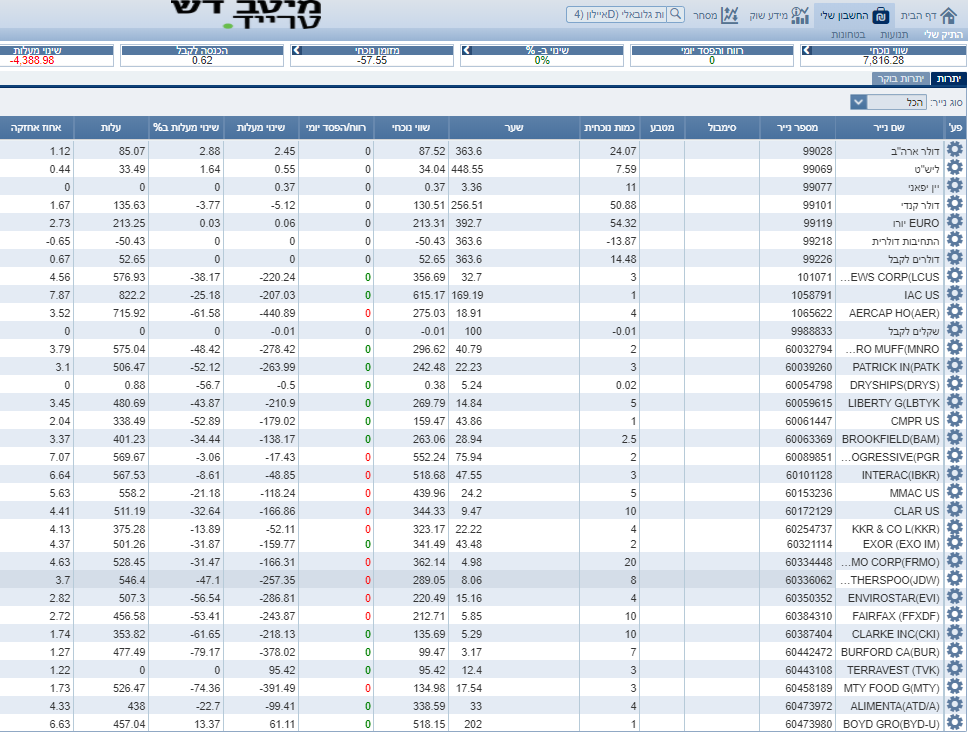
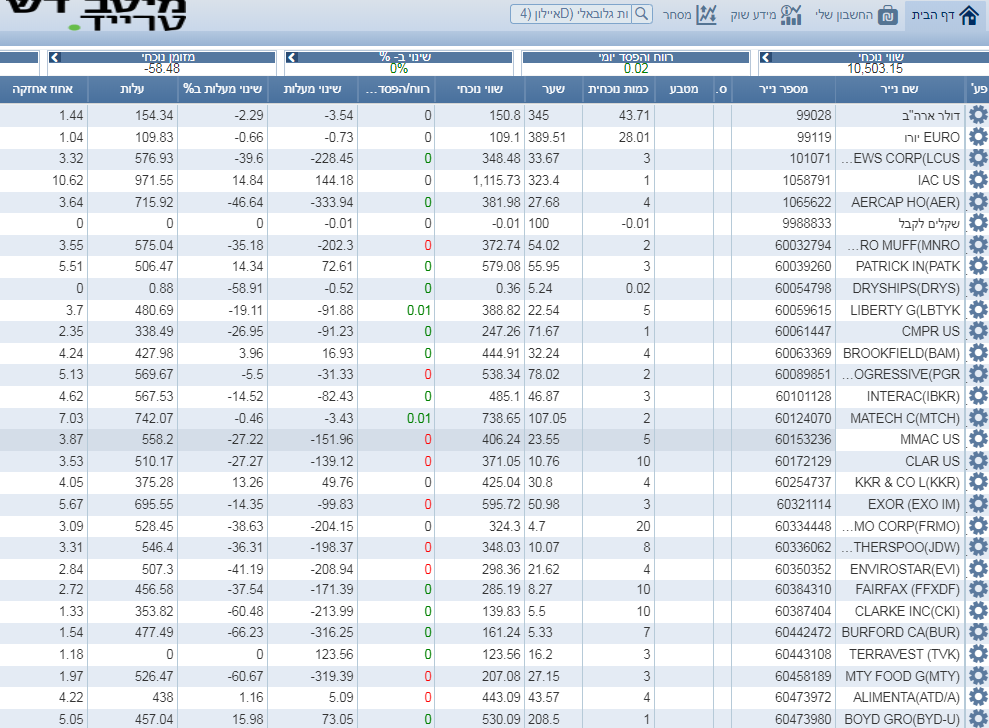
Updted bet-of-the-decade

diff --git a/blog/bet-of-the-decade.html b/blog/bet-of-the-decade.html
@@ -71,7 +71,7 @@
 <section class="row">
 <div class="coffee-span-12 header">
 <h3 class="heading-1" style="direction: rtl; font-size: 40px;">התערבות העשור: השקעה פאסיבית מול מנוהלת</h3>
-<p class="paragraph" style="font-size:12px;">פורסם בתאריך 30.6.2019, עדכון אחרון ב-6.4.2020</p>
+<p class="paragraph" style="font-size:12px;">פורסם בתאריך 30.6.2019, עדכון אחרון ב-3.7.2020</p>
 <p class="paragraph" style="font-size:12px;">התכנים בפוסט זה, כמו כל שאר התכנים בבלוג, הינם תכנים לימודיים במהותם, הם אינם מהווים ייעוץ או המלצה לביצוע פעולה בנייר ערך, ואין לראות בהם תחליף לייעוץ השקעות ו/או ייעוץ פנסיוני המתחשב בצרכיו הייחודיים של כל אדם.</p>
 <br>
 <div class="container table-row">
@@ -96,42 +96,39 @@
 <p class="paragraph">בסוף שנת 2007, וורן באפט, ככל הנראה המשקיע המפורסם והמוצלח בהיסטוריה, <a target="_blank" href="https://seekingalpha.com/article/4107853-warren-buffett-wins-1m-bet-made-decade-ago-s-and-p-500-stock-index-outperform-hedge-funds">התערב עם טד סיידס</a>, מנהל קרן גידור על סכום של מיליון דולר, שקרן פאסיבית זולה שעוקבת אחר מדד ה-S&P 500 (מדד הדגל האמריקאי), תשיג תוצאות טובות יותר מקבוצת קרנות הגידור של סיידס במשך עשור. באפט ניצח בהתערבות כאשר מדד ה-S&P 500 השיג תשואה של כ-85.4%, תוצאה גבוהה משמעותית מקרנות הגידור של סיידס, שהמוצלחת שבהן השיגה תשואה של 62.8% באותה תקופה.</p>
 <p class="paragraph" style="text-align: center;"><img src="../images/buffett-seides-bet.jpg" alt="buffett-seides-bet"></p>
 <p class="paragraph">כעת, כשנתיים לאחר סיום ההתערבות של באפט וסיידס, אנחנו, יואב ורונן, מעוניינים לשחזר את ההתערבות הזו, עם שינוי קל בתנאים, ולאפשר גם למתחרים נוספים להשתתף בה כמתחרים משניים. עמוד זה יעקוב אחר תשואת התיקים של יואב ושל רונן והתוצאות יעודכנו אחת לרבעון.</p>
-<p class="paragraph" style="padding-top: 20px; font-size:22px;">פרטי ההתערבות והצטרפות כמתחרה משני</p>
+<p class="paragraph" style="padding-top: 20px; font-size:22px;">פרטי ההתערבות</p>
 <p class="paragraph">ההתערבות תצא לדרך בחציון השני של 2019 (כלומר ב-1.7.2019) ותימשך עשור. הפרטים המלאים של ההתערבות מופיעים ב<a target="_blank" href="takanon.pdf">תקנון</a>, ולהלן עיקרי הדברים:</p>
 <p class="paragraph">1. <b>תקופת התחרות</b>: 1.7.2019 – 30.6.2029.</p>
-<p class="paragraph">2. <b>מתחרים ראשיים</b>: המתחרים הראשיים יהיו יואב זליקוביץ ורונן מרגוליס.</p>
-<p class="paragraph">3. <b>מתחרים משניים</b>: כל אחד רשאי להצטרף להתערבות כמתחרה משני, כאשר המועד האחרון להצטרפות מתחרים משניים הינו ה-31.8.2019. ההצטרפות תהיה באמצעות פרסום תיק השקעות פאסיבי או מנוהל ב<a target="_blank" href="https://www.facebook.com/groups/2210028712553194/permalink/2424941474395249/">פוסט ההתערבות בקבוצת הפייסבוק "ידע שווה כסף"</a>.</p>
-<p class="paragraph">4. <b>למתחרים המשניים אין כל מחוייבות</b> כלפי שאר המתחרים וזכותם לפרוש ממנה בכל עת.</p>
-<p class="paragraph">5. <b>פרס לזוכה מבין המתחרים הראשיים</b>: המפסיד בתחרות מבין שני המתחרים הראשיים יתרום 1,800 ₪ לעמותת צדקה לבחירת המנצח (מבין שני המתחרים הראשיים).</p>
-<p class="paragraph">6. <b>פרס לזוכה מבין המתחרים המשניים</b>: במידה ויזכה אחד המתחרים המשניים בתחרות, קרי ידורג ראשון מבין כל המשתתפים, הראשיים והמשניים כאחד, יזכה לארוחה זוגית במסעדה ע"ח יואב.</p>
-<p class="paragraph">7. <b>על כל מתחרה לבחור באחד משני מסלולים</b>: תיק פאסיבי או תיק מנוהל. הבוחרים בתיק פאסיבי יידרשו לבחור מדד/ים אחר/ים מאלו שבחר רונן, והבוחרים בתיק מנוהל יידרשו לבחור תיק מניות ספציפי, השונה מהתיק של יואב (תותר חפיפה של עד 20%).</p>
-<p class="paragraph">8. <b>אופן הדיווח – תיק מנוהל</b>: יואב והבוחרים בתיק מנוהל יידרשו לפתוח חשבון השקעות כתנאי להשתתפות בתחרות, בין אם חשבון אמיתי או חשבון "דמה" (למשל ב-Interactive Brokers), וידווחו את תוצאותיהם באמצעות דיווח על מצב התיק, קרי השוואת שווי התיק ביום הדיווח אל מול שווי התיק בתחילת התחרות.</p>
-<p class="paragraph">9. <b>אופן הדיווח – תיק פאסיבי</b>: רונן והבוחרים בתיק פאסיבי יוכלו לדווח באמצעות חשבון השקעות ייעודי, באמצעות דיווח תוצאות המדדים עצמם, או באמצעות דיווח תוצאות קרנות עוקבות מדד.</p>
-<p class="paragraph">10. <b>דמי ניהול</b>: מהחשבון של יואב ב-Interactive Brokers שייפתח לצורך התחרות יופחתו אוטומטית דמי ניהול בגובה 1.2% לשנה, בניכוי רבעוני של 0.3% מהתיק. לשאר המתחרים לא ינוכו דמי ניהול.</p>
-<p class="paragraph">11. <b>מיסים</b>: מיסים על רווחי הון ועל דיבידנדים לא יהיו חלק מחישוב התשואות, אלא אם נוכו במקור.</p>
-<p class="paragraph">12. <b>נכסים מותרים</b>: לתיק מנוהל – מניות הנסחרות בבורסה מוכרת בעולם. אין להחזיק בתיק מניה בודדת בהיקף העולה על 20% משווי התיק. לתיק פאסיבי – מדדים וקרנות סל. בשתי האפשרויות חל איסור על שימוש במינוף, נגזרים ואופציות.</p>
-<p class="paragraph">13. <b>שינויים בהרכב התיק לאורך תקופת התחרות</b>: יואב לא יוכל להחליף חברות בתיק לאורך תקופת התחרות, וכספי דיבידנדים שיתקבלו יוכלו להיות מושקעים מחדש רק באחת או יותר מהחברות שברשימה. האפשרות היחידה של יואב להחליף חברה בתיק תהיה רק במידה ואותה חברה נרכשה, ובמקרה זה יוכל יואב להשקיע את כספי תמורת המכירה באחת או יותר מהמניות שכבר מצויות בתיקו. בניגוד ליואב, המתחרים המשניים שבחרו בתיק מנוהל יוכלו להחליף את המניות בתיק שלהם לאורך תקופת ההתערבות, כל עוד יקפידו לדווח על השינויים שביצעו בתיק. מתחרים שבחרו בתיק פאסיבי לא יוכלו לבצע שינויים בתיק.</p>
-<p class="paragraph">13. <b>פרסום תוצאות רבעוני</b>: על כל המתחרים לדווח את תוצאות התיקים שלהם והשינויים שביצעו בו מדי רבעון, החל מתום כל רבעון ועד 10 ימים לאחר מכן,  קרי הדיווח הראשון יתבצע עד לתאריך 10.10.2019, הדיווח השני יתבצע עד לתאריך 10.1.2020 וכן הלאה. הדיווח יבוצע באמצעות שליחתו אל <a target="_blank" href="https://www.facebook.com/groups/2210028712553194/permalink/2424941474395249/">פוסט ההתערבות בקבוצת הפייסבוק "ידע שווה כסף"</a>. בקבוצה יוצג דירוג של כל משתתפי התחרות אשר יציגו את התיק שלהם בזמן ובאופן מדויק.</p>
+<p class="paragraph">2. <b>המתחרים</b>: ואב זליקוביץ ורונן מרגוליס.</p>
+<p class="paragraph">3. <b>הפרס לזוכה</b>: המפסיד בתחרות יתרום 1,800 ₪ לעמותת צדקה לבחירת המנצח (מבין שני המתחרים הראשיים).</p>
+<p class="paragraph">4. <b>על כל מתחרה לבחור באחד משני מסלולים</b>: תיק פאסיבי או תיק מנוהל. הבוחרים בתיק פאסיבי יידרשו לבחור מדד/ים אחר/ים מאלו שבחר רונן, והבוחרים בתיק מנוהל יידרשו לבחור תיק מניות ספציפי, השונה מהתיק של יואב (תותר חפיפה של עד 20%).</p>
+<p class="paragraph">5. <b>אופן הדיווח – תיק מנוהל</b>: יואב יפתח לצורך התחרות חשבון מסחר אמיתי וידווח על מצב התיק באמצעות השוואת שווי התיק ביום הדיווח אל מול שווי התיק בתחילת התחרות.</p>
+<p class="paragraph">6. <b>אופן הדיווח – תיק פאסיבי</b>: רונן ידווח על מצב התיק באמצעות דיווח תוצאות המדדים עצמם.</p>
+<p class="paragraph">7. <b>דמי ניהול</b>: מהחשבון של יואב יופחתו לצורך חישוב התשואה דמי ניהול בגובה 1.2% לשנה, בניכוי רבעוני של 0.3% מהתיק. מהתיק של רונן לא יופחתו דמי ניהול. עלות דמי ניהול של קרנות אשר עוקבות אחרי המדדים בתיק עומדת על כ-0.25%, וסכום דומה הופחת מדמי הניהול הטיפוסיים בתיקים מנוהלים כדוגמת התיק של יואב, שלרוב גבוהים מ-1.2%.</p>
+<p class="paragraph">8. <b>עמלות</b>: כדי לבצע השוואה הוגנת בין התיקים, גובה עמלות הקניה הראשוניות צריך להיות זהה. כיוון שהתיק של רונן מדווח באמצעות מדדים ולכן אינו כולל עמלת קניה, יתווסף לתיק של יואב הסכום של עמלת הקניה הראשונית שלו.</p>
+<p class="paragraph">9. <b>מיסים</b>: מיסים על רווחי הון ועל דיבידנדים לא יהיו חלק מחישוב התשואות, אלא אם נוכו במקור.</p>
+<p class="paragraph">10. <b>נכסים מותרים</b>: לתיק מנוהל – מניות הנסחרות בבורסה מוכרת בעולם. אין להחזיק בתיק מניה בודדת בהיקף העולה על 20% משווי התיק. לתיק פאסיבי – מדדים וקרנות סל. בשתי האפשרויות חל איסור על שימוש במינוף, נגזרים ואופציות.</p>
+<p class="paragraph">11. <b>שינויים בהרכב התיק לאורך תקופת התחרות</b>: יואב לא יוכל להחליף חברות בתיק לאורך תקופת התחרות, וכספי דיבידנדים שיתקבלו יוכלו להיות מושקעים מחדש רק באחת או יותר מהחברות שברשימה. האפשרות היחידה של יואב להחליף חברה בתיק תהיה רק במידה ואותה חברה נרכשה, ובמקרה זה יוכל יואב להשקיע את כספי תמורת המכירה באחת או יותר מהמניות שכבר מצויות בתיקו.</p>
 <p class="paragraph" style="padding-top: 20px; font-size:22px;">התיק של יואב</p>
 <p class="paragraph">התיק של יואב כולל רשימה של 23 מניות ספציפיות שיוחזקו לאורך כל תקופת ההתערבות. יואב בחר בעיקר במניות קטנות יחסית שהוא רואה בהן הזדמנות לתשואה גבוהה. אין לראות ברשימה זו משום המלצה לביצוע פעולה בניירות ערך או לייעוץ השקעות המתחשב בצרכיו הייחודיים של כל אדם.</p>
 <p class="paragraph">פרטים אודות המניות שבחר יואב לתיק יופיעו בהדרגה <a target="_blank" href="https://www.themarker.com/blogs/yoav-zelikovic">בבלוג שלו</a>. הרשימה המלאה: EXO, JDW, BUR, IBKR, PATK, CKI, BYD.UN, MTY, CLAR, ADT.A, FIH.U, MMAC, LBTYK, CMPR, PGR, BAM, L, EVI, MNRO, KKR, AER, IAC, FRMO.</p>
 <p class="paragraph" style="padding-top: 20px; font-size:22px;">התיק של רונן</p>
-<p class="paragraph">התיק של רונן יכלול שני מדדים בינלאומיים רחבים בחלוקה שווה, המכסים ביחד כ-6,000 מניות מכל רחבי העולם המפותח: 50% מהתיק יוקצה למדד <a target="_blank" href="https://www.msci.com/world">MSCI World Index</a> הכולל כ-1,600 חברות גדולות ובינוניות, ו-50% למדד <a target="_blank" href="https://www.msci.com/documents/10199/a67b0d43-0289-4bce-8499-0c102eaa8399">MSCI World Small Cap Index</a> הכולל כ-4,400 חברות קטנות. מעקב אחר תשואת המדדים תתבצע מתוך אתר MSCI, באופן שכולל השקעה מחדש של הדיבידנדים במדדים. להלן גרף המציג את ביצועי המדדים ב-15 השנים שקדמו לתחילת התחרות:</p>
+<p class="paragraph">התיק של רונן יכלול שני מדדים בינלאומיים רחבים בחלוקה שווה, המכסים ביחד כ-6,000 מניות מכל רחבי העולם המפותח: 50% מהתיק יוקצה למדד <a target="_blank" href="https://www.msci.com/world">MSCI World Index</a> הכולל כ-1,600 חברות גדולות ובינוניות, ו-50% למדד <a target="_blank" href="https://www.msci.com/documents/10199/a67b0d43-0289-4bce-8499-0c102eaa8399">MSCI World Small Cap Index</a> הכולל כ-4,400 חברות קטנות. מעקב אחר תשואת המדדים יתבצע מתוך אתר MSCI, באופן שכולל השקעה מחדש של הדיבידנדים במדדים. להלן גרף המציג את ביצועי המדדים ב-15 השנים שקדמו לתחילת התחרות:</p>
 <p class="paragraph" style="text-align: center;"><img src="../images/MSCI-World-Indexes.jpg" alt="MSCI-World-Indexes"></p>
 <p class="paragraph"><b>מדוע דווקא המדדים הללו?</b> כיוון שמדדי מניות קטנות מספקים תשואה היסטורית (נומינלית) של כ-12% לשנה בממוצע רב-שנתי, ומדדי מניות גדולות מספקים תשואה של כ-10% לשנה בממוצע רב-שנתי, יש היגיון בחשיפה משמעותית של התיק גם למניות קטנות ולא רק למניות גדולות או מניות ענק כמו המניות הכלולות במדד ה-S&P 500 למשל (כמובן שהתשואה העודפת באה ע"ח תנודתיות גבוהה יותר). הסיבה לבחירת שני מדדים ולא מדד גלובלי אחד שכולל גם חברות גדולות וגם קטנות (כדוגמת MSCI World All Cap Index) היא שהמשקל של כמה מאות מניות ענק במדד עולמי אחד מהווה כ-80-90% מכלל המדד, כך שאלפי חברות קטנות יותר מקבלות חשיפה מאוד נמוכה. לכן, בחר רונן להקצות 50% מהתיק למדד מניות גדולות ו-50% למדד מניות קטנות. אין לראות בתיק זה משום המלצה לביצוע פעולה בניירות ערך או לייעוץ השקעות המתחשב בצרכיו הייחודיים של כל אדם.</p>
 
 <p class="paragraph" style="padding-top: 20px; font-size:22px; color: #008000" id="results">תוצאות ההתערבות</p>
-<p class="paragraph">התוצאות שלהלן הינן התוצאות המצטברות ממועד תחילת ההתערבות (ה-1.7.2019) ועד ה-6.4.2020. נכון למועד זה:</p>
-<p class="paragraph">התיק של יואב השיג תשואה מצטברת שלילית של <b>38.4%-</b>.</p>
-<p class="paragraph">התיק של רונן השיג תשואה מצטברת שלילית של <b>23.5%-</b>.</p>
-<p class="paragraph">הפרש התשואות עומד כרגע על <b>14.9%</b> לזכות התיק של רונן, גידול של 1% בהפרש התשואות מהרבעון הקודם.</p>
-<p class="paragraph">נכון לחודש ינואר 2020 הפרש התשואות עמד על <b>13.9%</b> לזכות התיק של רונן.</p>
+<p class="paragraph">התוצאות שלהלן הינן התוצאות המצטברות ממועד תחילת ההתערבות (ה-1.7.2019) ועד ה-7.7.2020. נכון למועד זה:</p>
+<p class="paragraph">התיק של יואב השיג תשואה מצטברת שלילית של <b>12.35%-</b>.</p>
+<p class="paragraph">התיק של רונן השיג תשואה מצטברת שלילית אפסית של <b>0.09%-</b>.</p>
+<p class="paragraph">הפרש התשואות עומד כרגע על <b>12.26%</b> לזכות התיק של רונן, קיטון של 1% בהפרש התשואות מהרבעון הקודם.</p>
+<br>
 <p class="paragraph" style="font-size:18px;">סיכום תוצאות התיק של יואב</p>
-<p class="paragraph">התיק של יואב התחיל משווי של $3,455, ועמד נכון למועד הדיווח על שווי של $2,155 (7,816 ש"ח), המגלם תשואה שלילית של 37.6%-. בניכוי דמי הניהול המצטברים עומדת התשואה על 38.4%-. הטבלה שלהלן מפרטת את התשואות של כל אחת מהמניות בתיק של יואב.</p>
+<p class="paragraph">התיק של יואב התחיל משווי של $3,455, ובנטרול עמלות הקניה החד פעמיות ($158) כמתואר בפרטי ההתערבות שלעיל, עמד על שווי של $3,613. נכון למועד הדיווח התיק עמד על שווי של $3,046 (10,503 ש"ח), כלומר שווי של $3,204 בנטרול עמלת הקניה, שווי המגלם תשואה שלילית של 11.32%-. בניכוי דמי הניהול המצטברים ($37) עומדת התשואה על 12.35%-. הטבלה שלהלן מפרטת את התשואות של כל אחת מהמניות בתיק של יואב.</p>
 <p class="paragraph" style="text-align: center;"><img src="../images/results-yoav.png" alt="results-yoav"></p>
 <br>
 <p class="paragraph" style="font-size:18px;">סיכום תוצאות התיק של רונן</p>
-<p class="paragraph">התיק של רונן התחיל משווי של $200 ($100 לכל מדד) ועמד נכון למועד הדיווח על שווי של $153.09, המגלם תשואה שלילית של 23.5%-. הגרף שלהלן מציג את התשואה של שני המדדים בתיק של רונן.</p>
+<p class="paragraph">התיק של רונן התחיל משווי של $200 ($100 לכל מדד) ועמד נכון למועד הדיווח על שווי כמעט זהה של $199.83, המגלם תשואה שלילית של 0.09%-. הגרף שלהלן מציג את התשואה של שני המדדים בתיק של רונן.</p>
 <p class="paragraph" style="text-align: center;"><img src="../images/results-ronen.png" alt="results-ronen"></p>
 <br>
 <script type='text/javascript' src='//form.ravpage.co.il/fbafa30d95b851a0b3ba5984f76428c55E9FF981' charset='UTF-8'></script>
